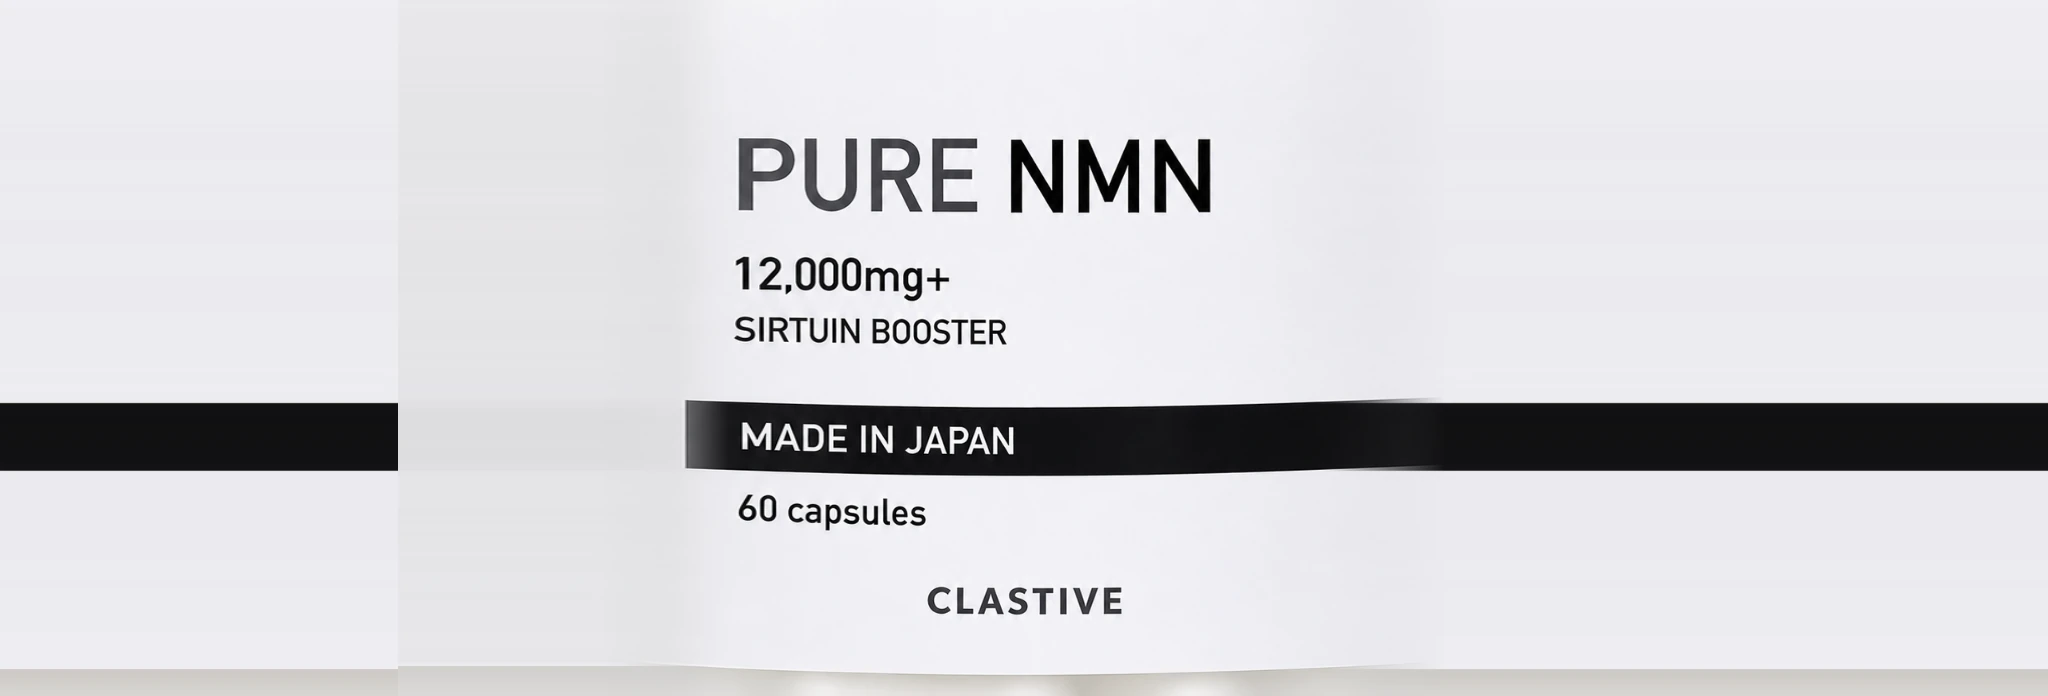
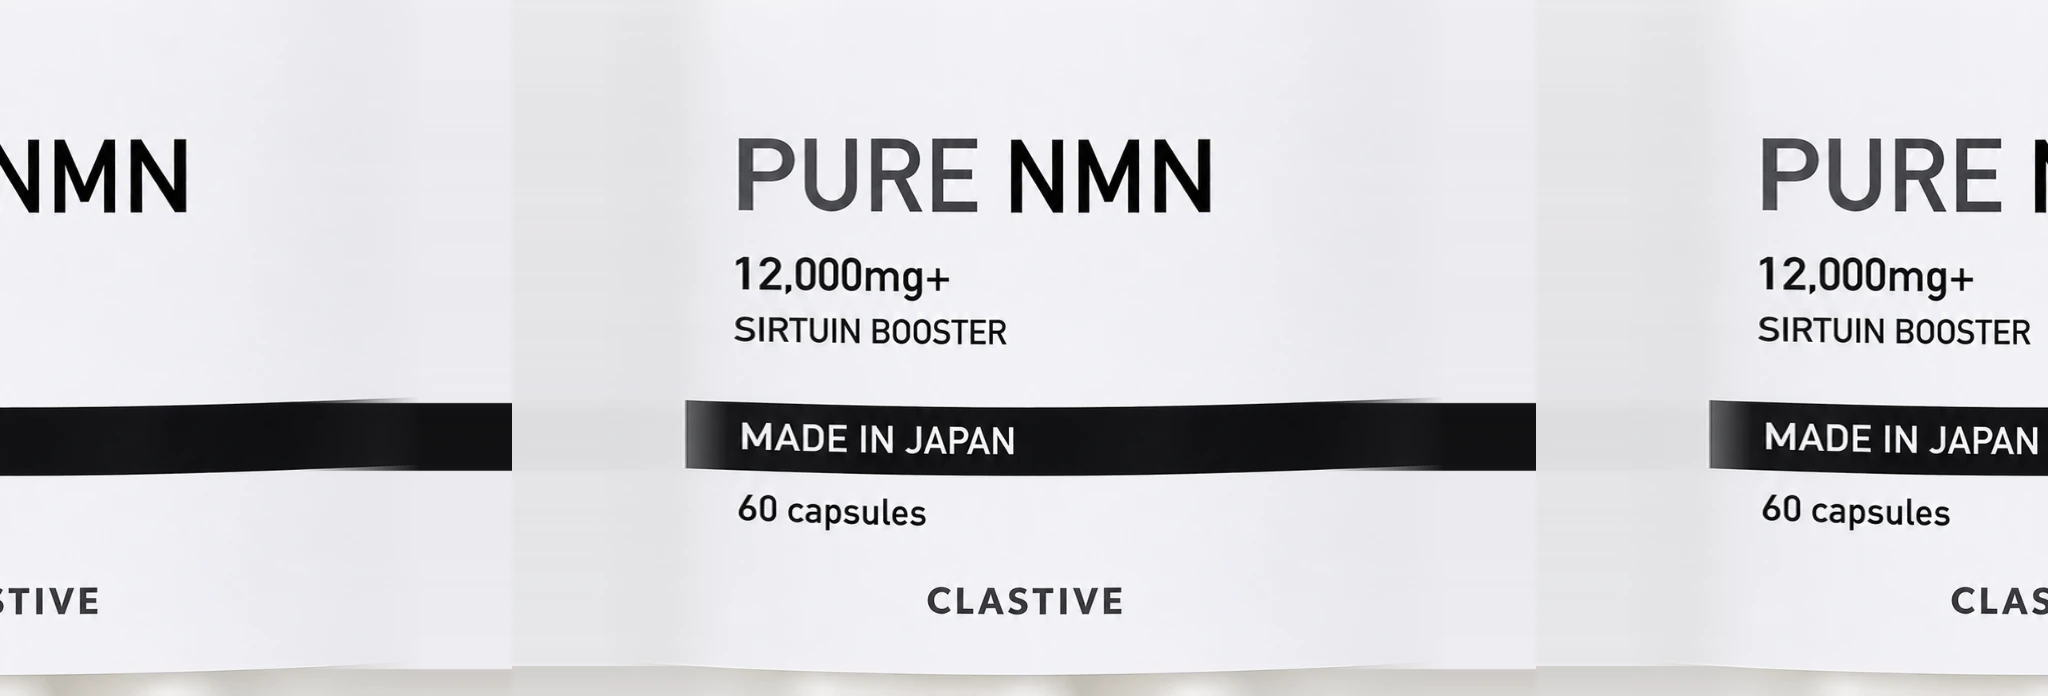
Chai 3D: không quay ra mặt sau khi cuộn — xoay tối đa ~±40°, nhãn in cả mặt sau
Claude-Session: https://claude.ai/code/session_01R2kRo8goPShs5yZFPUcAuH

diff --git a/assets/js/scene.js b/assets/js/scene.js
@@ -103,11 +103,11 @@ function makeBottle(o){
 const bottleA = makeBottle({ glass: 0xf2f2f1, rough: .42, clear: .4, sheen: .5, bodyR: .83,
   profile: [[0, 0], [0.223, 0.002], [0.53, 0.022], [0.654, 0.042], [0.717, 0.063], [0.751, 0.083], [0.794, 0.123], [0.816, 0.164], [0.828, 0.224], [0.822, 2.163], [0.802, 2.244], [0.753, 2.345], [0.646, 2.486], [0.633, 2.526], [0.632, 2.587], [0.639, 2.607], [0.667, 2.627], [0.677, 2.648], [0.68, 2.668], [0.68, 2.7], [0, 2.7]], lbl: [0.273, 2.042], cap: [2.67, 3.205], capR: 0.741,
   capMat: { color: 0x0d0d0f, roughness: .16, metalness: 0, clearcoat: 1, clearcoatRoughness: .05, envMapIntensity: 1.2 },
-  labelMat: photoLabel('assets/img/label-pure.webp?v=20261104', makeLabel({ bg1: '#f7f7f9', bg2: '#eeeef1', accent: '#13202a', ink: '#13202a', title: 'PURE NMN', titleSize: 108, sub: '12,000mg+', subSize: 84, line: '60 CAPSULES · NMN' })) });
+  labelMat: photoLabel('assets/img/label-pure.webp?v=20261104b', makeLabel({ bg1: '#f7f7f9', bg2: '#eeeef1', accent: '#13202a', ink: '#13202a', title: 'PURE NMN', titleSize: 108, sub: '12,000mg+', subSize: 84, line: '60 CAPSULES · NMN' })) });
 const bottleB = makeBottle({ glass: 0xdfe3e9, rough: .3, clear: .8, sheen: .25, bodyR: .83,
   profile: [[0, 0], [0.271, 0.002], [0.639, 0.024], [0.724, 0.046], [0.763, 0.068], [0.804, 0.111], [0.827, 0.177], [0.83, 1.881], [0.825, 1.99], [0.802, 2.099], [0.756, 2.186], [0.699, 2.252], [0.654, 2.296], [0.637, 2.317], [0.618, 2.361], [0.614, 2.405], [0.616, 2.427], [0.644, 2.448], [0.66, 2.47], [0.662, 2.492], [0.662, 2.563], [0, 2.563]], lbl: [0.26, 1.916], cap: [2.533, 3.029], capR: 0.718,
   capMat: { color: 0xeef0f3, roughness: .07, metalness: 1, clearcoat: .8, clearcoatRoughness: .05, envMapIntensity: 1.6 },
-  labelMat: photoLabel('assets/img/label-regene.webp?v=20261104', makeLabel({ bg1: '#a6a9b8', bg2: '#8f93a4', accent: '#111', ink: '#111', title: 'NMN', titleSize: 176, sub: 'Regene', subSize: 116, line: '90 CAPSULES · NMN' })) });
+  labelMat: photoLabel('assets/img/label-regene.webp?v=20261104b', makeLabel({ bg1: '#a6a9b8', bg2: '#8f93a4', accent: '#111', ink: '#111', title: 'NMN', titleSize: 176, sub: 'Regene', subSize: 116, line: '90 CAPSULES · NMN' })) });
 scene.add(bottleA, bottleB);
 
 /* ---------- pearl cell ---------- */
@@ -216,9 +216,10 @@ function loop(){
   const s = sSmooth;
 
   place(bottleA, 'A', s, k); place(bottleB, 'B', s, k);
-  const turn = s * Math.PI * 2; // one full turn per section; label faces the viewer at each section
-  bottleA.rotation.set(.08 + Math.sin(t * .6) * .035 * motion, -.3 + Math.sin(t * .45) * .28 * motion + turn, -.05);
-  bottleB.rotation.set(.08 + Math.cos(t * .6) * .035 * motion, .3 + Math.sin(t * .45 + 1.4) * .28 * motion - turn, .05);
+  // xoay nhẹ khi cuộn (tối đa ~±40°) để mặt nhãn luôn hướng về người xem — không quay ra mặt sau
+  const turn = Math.sin(s * Math.PI * 2) * .32;
+  bottleA.rotation.set(.08 + Math.sin(t * .6) * .035 * motion, -.2 + Math.sin(t * .45) * .16 * motion + turn, -.05);
+  bottleB.rotation.set(.08 + Math.cos(t * .6) * .035 * motion, .2 + Math.sin(t * .45 + 1.4) * .16 * motion - turn, .05);
   bottleA.position.y += Math.sin(t * 1.1) * .05 * motion;
   bottleB.position.y += Math.cos(t * 1.1) * .05 * motion;
 

diff --git a/index.html b/index.html
@@ -372,6 +372,6 @@
   "three/addons/": "https://cdn.jsdelivr.net/npm/three@0.160.0/examples/jsm/"
 } }
 </script>
-<script type="module" src="assets/js/scene.js?v=20261104"></script>
+<script type="module" src="assets/js/scene.js?v=20261104b"></script>
 </body>
 </html>
